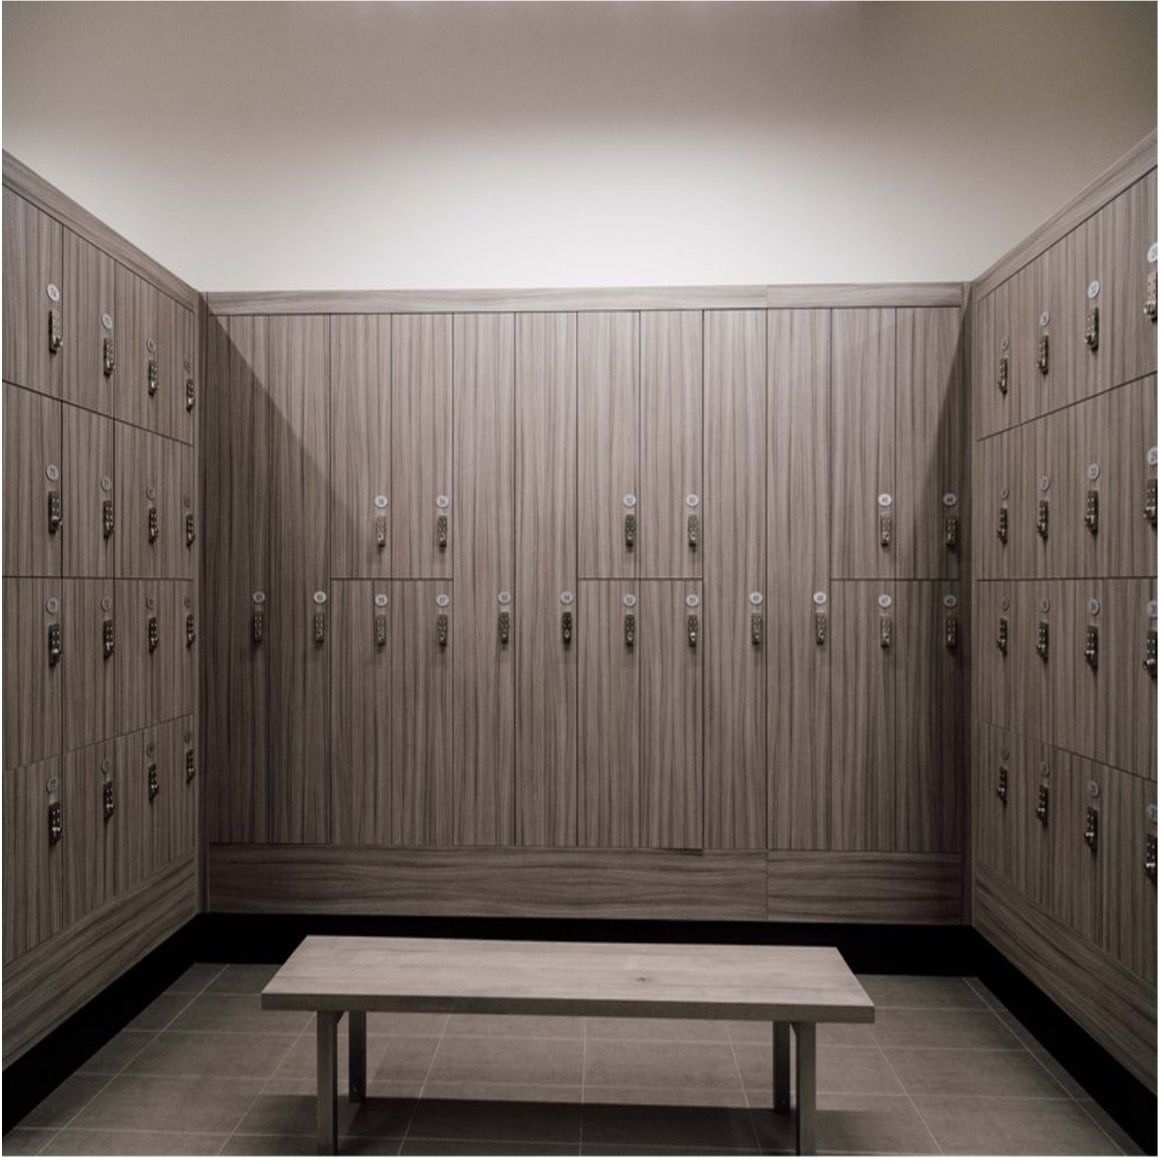
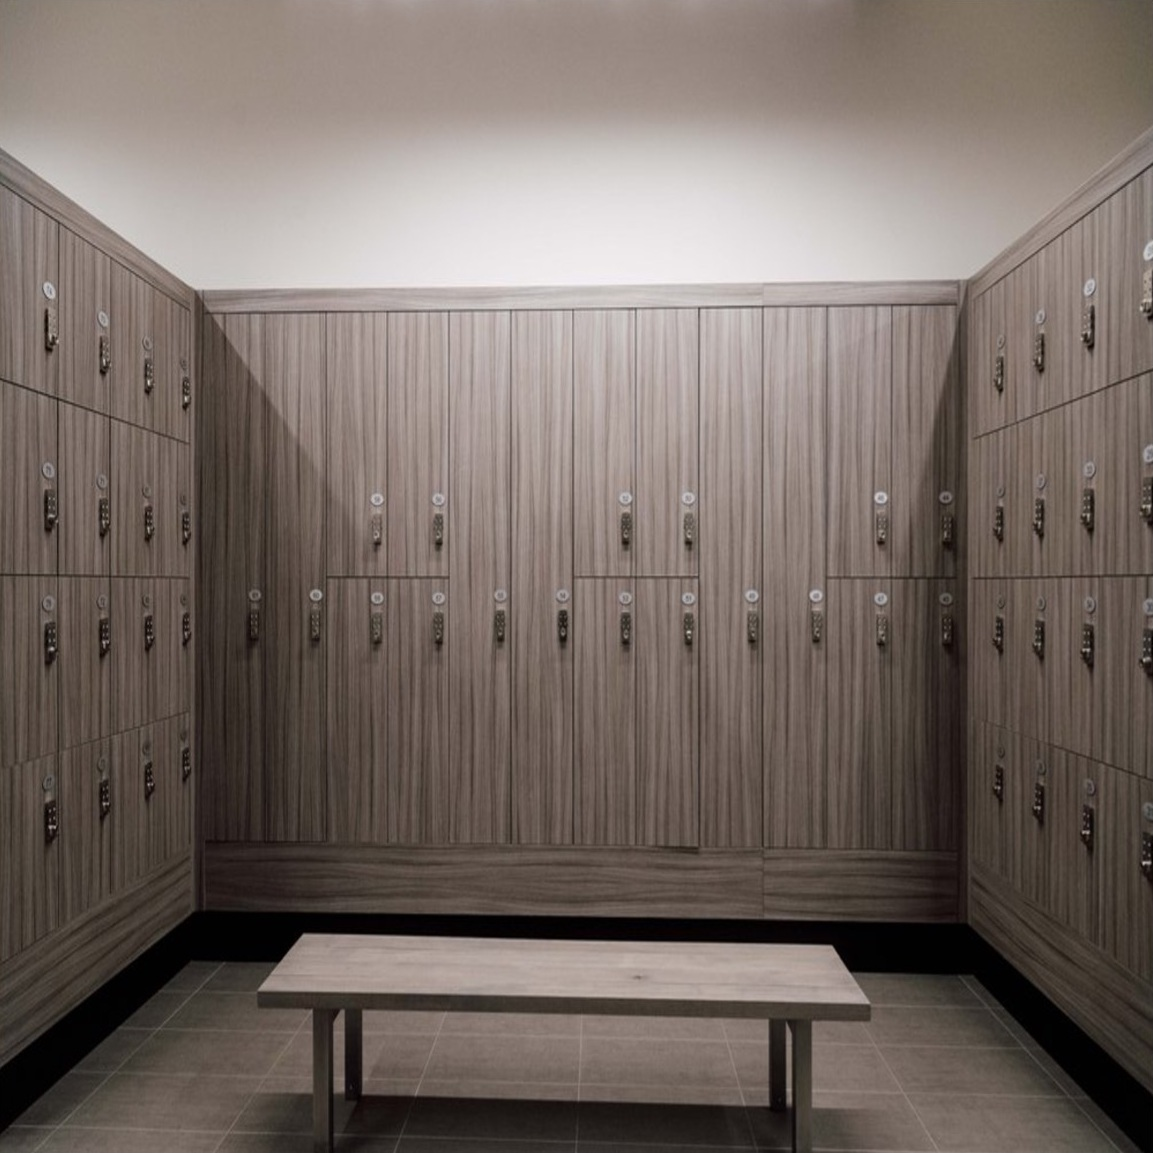
Add files via upload

diff --git a/Deerwood/privacy-policy.html b/Deerwood/privacy-policy.html
@@ -4,9 +4,13 @@
 <meta charset="UTF-8">
 <meta name="viewport" content="width=device-width, initial-scale=1.0">
 <title>Privacy Policy | Deerwood Millwork</title>
+<link rel="icon" type="image/x-icon" href="favicon/favicon.ico">
+<link rel="icon" type="image/svg+xml" href="favicon/favicon.svg">
+<link rel="icon" type="image/png" sizes="96x96" href="favicon/favicon-96x96.png">
+<link rel="apple-touch-icon" href="favicon/apple-touch-icon.png">
 <link rel="preconnect" href="https://fonts.googleapis.com">
 <link rel="preconnect" href="https://fonts.gstatic.com" crossorigin>
-<link href="https://fonts.googleapis.com/css2?family=Playfair+Display:ital,wght@0,400;0,600;0,700;1,400;1,600&family=Inter:wght@300;400;500;600&display=swap" rel="stylesheet">
+<link href="https://fonts.googleapis.com/css2?family=Cinzel:wght@400;600;700&family=Playfair+Display:ital,wght@0,400;0,600;0,700;1,400;1,600&family=Inter:wght@300;400;500;600&display=swap" rel="stylesheet">
 
 <style>
   :root {
@@ -45,24 +49,67 @@
     background: rgba(17, 17, 17, 0.96);
     backdrop-filter: blur(12px);
     border-bottom: 1px solid rgba(255,255,255,0.06);
+    transition: background 0.3s;
   }
+
+  .hamburger {
+    display: none;
+    flex-direction: column;
+    gap: 5px;
+    cursor: pointer;
+    background: none;
+    border: none;
+    padding: 4px;
+  }
+
+  .hamburger span {
+    display: block;
+    width: 24px;
+    height: 2px;
+    background: var(--white);
+    transition: all 0.3s;
+  }
+
+  .mobile-nav {
+    display: none;
+    position: fixed;
+    top: 88px; left: 0; right: 0; bottom: 0;
+    background: rgba(17,17,17,0.98);
+    z-index: 999;
+    flex-direction: column;
+    align-items: center;
+    justify-content: center;
+    gap: 32px;
+  }
+
+  .mobile-nav.open { display: flex; }
+
+  .mobile-nav a {
+    font-family: 'Playfair Display', serif;
+    font-size: 2.2rem;
+    font-weight: 400;
+    color: rgba(255,255,255,0.8);
+    text-decoration: none;
+    transition: color 0.2s;
+  }
+
+  .mobile-nav a:hover { color: var(--green-light); }
 
   .nav-logo {
     display: flex;
     align-items: center;
     text-decoration: none;
-    font-family: 'Playfair Display', serif;
-    font-size: 1.5rem;
-    font-weight: 700;
-    letter-spacing: 0.08em;
+    font-family: 'Cinzel', serif;
+    font-size: 1.45rem;
+    font-weight: 600;
+    letter-spacing: 0.18em;
     text-transform: uppercase;
     color: var(--green-light);
+    white-space: nowrap;
+    flex-shrink: 0;
   }
 
-  .nav-logo span {
-    color: var(--white);
-    margin-right: 0.3em;
-  }
+  .nav-logo .logo-name { color: var(--white); }
 
   .nav-links {
     display: flex;
@@ -95,6 +142,8 @@
     padding: 10px 24px;
     border: 1px solid var(--green-mid);
     transition: background 0.2s !important;
+    white-space: nowrap;
+    flex-shrink: 0;
   }
 
   .nav-cta:hover { background: var(--green-mid) !important; }
@@ -192,8 +241,30 @@
     text-decoration: underline;
   }
 
+  @media (max-width: 1350px) {
+    nav { padding: 0 28px; }
+    .logo-tagline { display: none; }
+    .nav-links { gap: 20px; }
+  }
+
   @media (max-width: 768px) {
+    nav { display: flex; padding: 0 24px; justify-content: center; }
     .nav-links { display: none; }
+    .hamburger { display: none; }
+    .mobile-nav { display: none !important; }
+    .logo-tagline { display: none; }
+    .nav-logo {
+      border: 1px solid rgba(90,140,102,0.45);
+      padding: 8px 20px;
+    }
+    .nav-logo::before {
+      content: '←';
+      margin-right: 10px;
+      font-family: sans-serif;
+      font-size: 1rem;
+      letter-spacing: 0;
+      color: var(--green-light);
+    }
     .policy-inner { padding: 0 24px; }
     .policy-page { padding: 120px 0 80px; }
   }
@@ -202,9 +273,9 @@
 <body>
 
 <!-- ─── NAV ─── -->
-<nav>
+<nav id="main-nav">
   <a href="index.html" class="nav-logo">
-    <span>Deerwood</span> Custom Millwork Solutions
+    <span class="logo-name">Deerwood</span><span class="logo-tagline">&nbsp;Custom Millwork Solutions</span>
   </a>
   <ul class="nav-links">
     <li><a href="index.html">Home</a></li>
@@ -213,7 +284,18 @@
     <li><a href="index.html#gallery">Gallery</a></li>
     <li><a href="index.html#contact" class="nav-cta">Contact Us</a></li>
   </ul>
+  <button class="hamburger" id="hamburger" aria-label="Open menu">
+    <span></span><span></span><span></span>
+  </button>
 </nav>
+
+<div class="mobile-nav" id="mobile-nav">
+  <a href="index.html" onclick="closeMobile()">Home</a>
+  <a href="index.html#our-work" onclick="closeMobile()">Our Work</a>
+  <a href="index.html#about" onclick="closeMobile()">About</a>
+  <a href="index.html#gallery" onclick="closeMobile()">Gallery</a>
+  <a href="index.html#contact" onclick="closeMobile()">Contact</a>
+</div>
 
 <!-- ─── CONTENT ─── -->
 <div class="policy-page">
@@ -267,5 +349,11 @@
   </div>
 </footer>
 
+<script>
+  const hamburger = document.getElementById('hamburger');
+  const mobileNav = document.getElementById('mobile-nav');
+  hamburger.addEventListener('click', () => mobileNav.classList.toggle('open'));
+  function closeMobile() { mobileNav.classList.remove('open'); }
+</script>
 </body>
 </html>

diff --git a/Deerwood/index.html b/Deerwood/index.html
@@ -66,12 +66,11 @@
     letter-spacing: 0.18em;
     text-transform: uppercase;
     color: var(--green-light);
+    white-space: nowrap;
+    flex-shrink: 0;
   }
 
-  .nav-logo span { 
-    color: var(--white); 
-
-  }
+  .nav-logo .logo-name { color: var(--white); }
 
   .nav-links {
     display: flex;
@@ -104,6 +103,8 @@
     padding: 10px 24px;
     border: 1px solid var(--green-mid);
     transition: background 0.2s !important;
+    white-space: nowrap;
+    flex-shrink: 0;
   }
 
   .nav-cta:hover { background: var(--green-mid) !important; color: var(--white) !important; }
@@ -171,8 +172,8 @@
   }
 
   .hero-logo {
-    width: 500px;
-    max-width: 80vw;
+    width: 400px;
+    max-width: 70vw;
     height: auto;
     display: block;
     margin-bottom: 32px;
@@ -223,11 +224,11 @@
 
   .hero-sub {
     font-family: 'Inter', sans-serif;
-    font-size: 1.15rem;
+    font-size: 1rem;
     font-weight: 400;
     line-height: 1.75;
     color: rgba(255,255,255,0.95);
-    max-width: 560px;
+    max-width: 520px;
     margin-bottom: 40px;
     opacity: 0;
     animation: fadeUp 0.8s 0.6s forwards;
@@ -933,6 +934,19 @@
   .mobile-nav a:hover { color: var(--green-light); }
 
   /* ─── RESPONSIVE ─── */
+  @media (max-width: 1350px) {
+    nav { padding: 0 28px; }
+    .logo-tagline { display: none; }
+    .nav-links { gap: 20px; }
+  }
+
+  @media (max-width: 1280px) {
+    .hero-logo { width: 300px; }
+    .hero-content { padding: 0 56px 60px; }
+    .hero-sub { font-size: 0.92rem; }
+    .btn-primary, .btn-outline { padding: 13px 28px; font-size: 0.85rem; }
+  }
+
   @media (max-width: 1024px) {
     .work-intro { grid-template-columns: 1fr; gap: 40px; }
     .stats-grid { grid-template-columns: repeat(2, 1fr); }
@@ -940,12 +954,16 @@
   }
 
   @media (max-width: 768px) {
-    nav { padding: 0 24px; }
-    .nav-links { display: none; }
-    .hamburger { display: flex; }
+    nav { display: none; }
+    .mobile-nav { display: none !important; }
 
-    .hero-content { padding: 0 24px 64px; }
-    .hero-dots { right: 24px; }
+    .hero-content { padding: 0 24px 64px; text-align: center; display: flex; flex-direction: column; align-items: center; }
+    .hero-logo { margin: 0 auto 32px; }
+    .hero-eyebrow { justify-content: center; }
+    .hero-eyebrow::before { display: none; }
+    .hero-sub { max-width: 100%; }
+    .hero-actions { justify-content: center; }
+    .hero-dots { display: none; }
 
     .section-inner { padding: 0 24px; }
     .section-heading { font-size: 2rem; }
@@ -966,6 +984,12 @@
     .stats-grid { grid-template-columns: repeat(2, 1fr); }
     .stat-item { border-right: none; border-bottom: 1px solid rgba(255,255,255,0.1); }
     .stat-item:nth-child(3), .stat-item:nth-child(4) { border-bottom: none; }
+    .stats-band { padding: 20px 0; }
+    .stat-visual { height: 80px; margin-bottom: 16px; }
+    .stat-visual img { height: 60px !important; width: auto; max-width: 90%; }
+    .stat-num { font-size: 4.8rem; }
+    .stat-num sup { font-size: 1.6rem; }
+    .stat-label { font-size: 0.78rem; }
   }
 
   @media (max-width: 480px) {
@@ -991,7 +1015,7 @@
 <!-- ─── NAV ─── -->
 <nav id="main-nav">
   <a href="#home" class="nav-logo">
-    <span>Deerwood&nbsp;</span>Custom Millwork Solutions
+    <span class="logo-name">Deerwood</span><span class="logo-tagline">&nbsp;Custom Millwork Solutions</span>
   </a>
   <ul class="nav-links">
     <li><a href="#home">Home</a></li>
@@ -1005,13 +1029,13 @@
   </button>
 </nav>
 
-<nav class="mobile-nav" id="mobile-nav">
+<div class="mobile-nav" id="mobile-nav">
   <a href="#home" onclick="closeMobile()">Home</a>
   <a href="#our-work" onclick="closeMobile()">Our Work</a>
   <a href="#about" onclick="closeMobile()">About</a>
   <a href="#gallery" onclick="closeMobile()">Gallery</a>
   <a href="#contact" onclick="closeMobile()">Contact</a>
-</nav>
+</div>
 
 <!-- ─── HERO ─── -->
 <section id="home">
